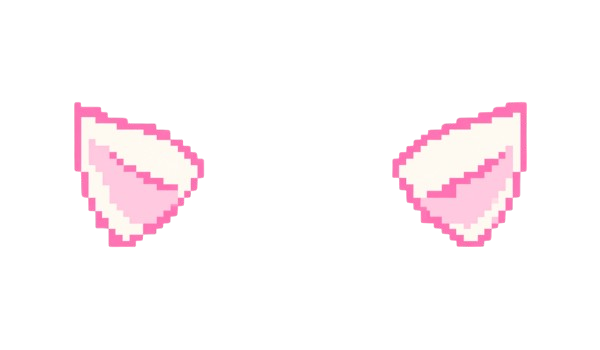
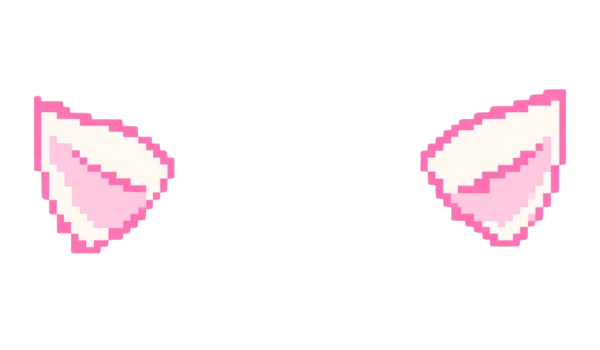
bg Filter added

Changed region(s): [[0.63, 0.2571, 0.96, 0.7143], [0.03, 0.2571, 0.36, 0.7429]]

diff --git a/filters/background_replace.py b/filters/background_replace.py
@@ -1,0 +1,140 @@
+import os
+import cv2
+import numpy as np
+from typing import Optional
+from rembg import remove, new_session
+
+# ── Asset path ────────────────────────────────────────────────────────────────
+_ASSETS_DIR: str = os.path.join(
+    os.path.dirname(os.path.abspath(__file__)), "..", "assets", "backgrounds"
+)
+
+# ── rembg session — loaded once, reused every frame ──────────────────────────
+# u2net_human_seg is optimised specifically for people — cleaner edges
+# than the default u2net model, especially around hair and shoulders.
+_session = None
+
+def _get_session():
+    global _session
+    if _session is None:
+        _session = new_session("u2net_human_seg")
+    return _session
+
+
+# ── Background cache ──────────────────────────────────────────────────────────
+_bg_cache: dict = {}
+
+def _load_bg(filename: str, target_w: int, target_h: int) -> np.ndarray:
+    """
+    Load and resize a background image to match frame dimensions.
+    Cached per filename — resized fresh only when frame size changes.
+    """
+    cache_key = f"{filename}_{target_w}_{target_h}"
+    if cache_key in _bg_cache:
+        return _bg_cache[cache_key]
+
+    path = os.path.join(_ASSETS_DIR, filename)
+    bg = cv2.imread(path, cv2.IMREAD_COLOR)
+    if bg is None:
+        # Fallback: solid gradient if file not found
+        bg = np.zeros((target_h, target_w, 3), dtype=np.uint8)
+        for y in range(target_h):
+            t = y / target_h
+            bg[y, :] = (
+                int(255 * (1 - t)),
+                int(180 * t),
+                int(255 * t),
+            )
+    else:
+        # Crop to same aspect ratio then resize — no stretching
+        bh, bw = bg.shape[:2]
+        target_aspect = target_w / target_h
+        bg_aspect     = bw / bh
+
+        if bg_aspect > target_aspect:
+            # BG is wider — crop sides
+            new_bw = int(bh * target_aspect)
+            ox     = (bw - new_bw) // 2
+            bg     = bg[:, ox: ox + new_bw]
+        else:
+            # BG is taller — crop top/bottom
+            new_bh = int(bw / target_aspect)
+            oy     = (bh - new_bh) // 2
+            bg     = bg[oy: oy + new_bh, :]
+
+        bg = cv2.resize(bg, (target_w, target_h), interpolation=cv2.INTER_AREA)
+
+    _bg_cache[cache_key] = bg
+    return bg
+
+
+def apply_background_replace(
+    img: np.ndarray,
+    bg_filename: str = "bg1.jpg",
+) -> np.ndarray:
+    """
+    Background Replacement filter.
+
+    Uses rembg (U2Net human segmentation model) to extract the person
+    from the frame, then composites them onto a custom background image.
+
+    Pipeline:
+      1. Convert BGR frame to RGB PNG bytes (rembg requires RGB input).
+      2. rembg.remove() → returns RGBA PNG bytes with background removed.
+      3. Decode RGBA → split into RGB person + alpha mask.
+      4. Load + resize background image to match frame dimensions.
+      5. Alpha-composite: person over background using the mask.
+      6. Optional edge softening — slight blur on mask edges to reduce
+         the hard cutout look, especially around fine hair.
+
+    Args:
+        img         : BGR uint8 image (H x W x 3)
+        bg_filename : filename of background image in assets/backgrounds/
+                      e.g. "bg1.jpg", "bg2.jpg", "bg3.jpg"
+
+    Returns:
+        BGR uint8 image with background replaced.
+    """
+    h: int = img.shape[0]
+    w: int = img.shape[1]
+
+    # ── 1. Convert BGR → RGB → PNG bytes for rembg ───────────────────────────
+    rgb: np.ndarray = cv2.cvtColor(img, cv2.COLOR_BGR2RGB)
+    _, png_buf = cv2.imencode('.png', rgb)
+    png_bytes: bytes = png_buf.tobytes()
+
+    # ── 2. Remove background → RGBA PNG bytes ────────────────────────────────
+    result_bytes: bytes = remove(
+        png_bytes,
+        session=_get_session(),
+        alpha_matting=True,              # better hair/edge quality
+        alpha_matting_foreground_threshold=240,
+        alpha_matting_background_threshold=10,
+        alpha_matting_erode_size=10,
+    )
+
+    # ── 3. Decode RGBA ────────────────────────────────────────────────────────
+    nparr: np.ndarray  = np.frombuffer(result_bytes, np.uint8)
+    rgba:  np.ndarray  = cv2.imdecode(nparr, cv2.IMREAD_UNCHANGED)
+
+    if rgba is None or rgba.shape[2] < 4:
+        return img.copy()   # fallback — return original if decode fails
+
+    person_rgb: np.ndarray = cv2.cvtColor(rgba[:, :, :3], cv2.COLOR_RGB2BGR)
+    alpha_raw:  np.ndarray = rgba[:, :, 3].astype(np.float32) / 255.0
+
+    # ── 4. Soften mask edges — reduces hard cutout look ───────────────────────
+    alpha_soft: np.ndarray = cv2.GaussianBlur(
+        alpha_raw, (5, 5), sigmaX=1.2
+    )
+    alpha3: np.ndarray = alpha_soft[:, :, np.newaxis]
+
+    # ── 5. Load background ────────────────────────────────────────────────────
+    background: np.ndarray = _load_bg(bg_filename, w, h)
+
+    # ── 6. Composite: person over background ─────────────────────────────────
+    person_f: np.ndarray = person_rgb.astype(np.float32)
+    bg_f:     np.ndarray = background.astype(np.float32)
+
+    composite: np.ndarray = person_f * alpha3 + bg_f * (1.0 - alpha3)
+    return np.clip(composite, 0, 255).astype(np.uint8)

diff --git a/filters/pixel.py b/filters/pixel.py
@@ -1,0 +1,79 @@
+import cv2
+import numpy as np
+
+# ── Config ────────────────────────────────────────────────────────────────────
+_BLOCK_SIZE:      int   = 2      # pixel block size in px — change to 16/32 for bigger blocks
+_SCANLINE_ALPHA:  float = 0.28   # scanline darkness 0.0=invisible 1.0=full black bars
+_SCANLINE_GAP:    int   = 2     # draw a dark bar every N rows (2 = every other row)
+_CONTRAST_BOOST:  float = 1.08   # slight contrast lift to compensate scanline darkening
+_SATURATION_BOOST:float = 1.12   # slight colour pop — CRT screens were vivid
+
+
+def apply_pixel(img: np.ndarray) -> np.ndarray:
+    """
+    Pixel Art + Scanlines filter (old CRT game screen aesthetic).
+
+    Pipeline:
+      1. Pixelate  — shrink to block grid, scale back with INTER_NEAREST
+                     so every block is a flat colour with hard edges.
+      2. Saturation boost — CRT screens had punchy vivid colours.
+      3. Contrast boost   — compensates for scanline darkening.
+      4. Scanlines — draw semi-transparent horizontal dark bars every
+                     _SCANLINE_GAP rows to mimic a CRT phosphor screen.
+
+    Args:
+        img : BGR uint8 image (H x W x 3)
+
+    Returns:
+        BGR uint8 image with pixel + scanline effect applied.
+    """
+    h: int = img.shape[0]
+    w: int = img.shape[1]
+
+    # ── 1. Pixelate ───────────────────────────────────────────────────────────
+    block: int = max(2, _BLOCK_SIZE)
+
+    # Shrink — each block becomes one pixel
+    small: np.ndarray = cv2.resize(
+        img,
+        (max(1, w // block), max(1, h // block)),
+        interpolation=cv2.INTER_LINEAR,   # average colours within block
+    )
+    # Scale back — INTER_NEAREST copies pixel exactly, no blending → hard edges
+    pixelated: np.ndarray = cv2.resize(
+        small,
+        (w, h),
+        interpolation=cv2.INTER_NEAREST,
+    )
+
+    # ── 2. Saturation + contrast boost ───────────────────────────────────────
+    hsv: np.ndarray = cv2.cvtColor(pixelated, cv2.COLOR_BGR2HSV).astype(np.float32)
+    hsv[:, :, 1] = np.clip(hsv[:, :, 1] * _SATURATION_BOOST, 0, 255)
+    hsv[:, :, 2] = np.clip(hsv[:, :, 2] * _CONTRAST_BOOST,   0, 255)
+    result: np.ndarray = cv2.cvtColor(hsv.astype(np.uint8), cv2.COLOR_HSV2BGR)
+
+    # ── 3. Scanlines ──────────────────────────────────────────────────────────
+    # Build a scanline mask: 1.0 everywhere except dark bars on every Nth row
+    scanline_mask: np.ndarray = np.ones((h, w), dtype=np.float32)
+
+    # Every _SCANLINE_GAP rows, draw a bar that is _SCANLINE_ALPHA darker
+    # Bar height = 1 px for subtle effect at 8px block size
+    for y in range(0, h, _SCANLINE_GAP):
+        scanline_mask[y, :] = 1.0 - _SCANLINE_ALPHA
+
+    # Apply mask: multiply each channel by the scanline pattern
+    scanline_mask3: np.ndarray = scanline_mask[:, :, np.newaxis]   # H×W×1
+    result = np.clip(
+        result.astype(np.float32) * scanline_mask3, 0, 255
+    ).astype(np.uint8)
+
+    # ── 4. Subtle green phosphor tint — optional CRT colour cast ─────────────
+    # Adds a very faint green-blue warmth typical of old CRT monitors.
+    # Comment out these 4 lines if you want a neutral (no tint) look.
+    tint: np.ndarray = np.zeros_like(result, dtype=np.float32)
+    tint[:, :] = (2, 4, 0)          # tiny BGR boost: +2 blue, +4 green, +0 red
+    result = np.clip(
+        result.astype(np.float32) + tint, 0, 255
+    ).astype(np.uint8)
+
+    return result

diff --git a/filters/heatmap.py b/filters/heatmap.py
@@ -1,0 +1,55 @@
+import cv2
+import numpy as np
+
+
+def apply_heatmap(img: np.ndarray) -> np.ndarray:
+    """
+    Thermal Heatmap filter — simulates an infrared thermal camera.
+
+    Matches the reference image:
+      • Dark/cool areas  → deep blue / purple
+      • Mid-areas        → cyan → green → yellow
+      • Bright/warm areas → orange → red → white-yellow
+
+    Pipeline:
+      1. Convert to grayscale (luminance = heat proxy)
+      2. Apply COLORMAP_JET  — OpenCV's built-in thermal palette
+         (blue=cold → cyan → green → yellow → red=hot)
+      3. Boost saturation so colours are vivid like the reference
+      4. Slight blur before mapping to smooth thermal gradients
+
+    Args:
+        img : BGR uint8 image (H x W x 3)
+
+    Returns:
+        BGR uint8 heatmap image, same shape as input.
+    """
+    # ── 1. Smooth first — thermal cameras don't have sharp edges ─────────────
+    smoothed: np.ndarray = cv2.GaussianBlur(img, (5, 5), sigmaX=1.5)
+
+    # ── 2. Grayscale — luminance acts as heat proxy ───────────────────────────
+    gray: np.ndarray = cv2.cvtColor(smoothed, cv2.COLOR_BGR2GRAY)
+
+    # ── 3. Enhance contrast so full colour range is used ─────────────────────
+    # CLAHE (Contrast Limited Adaptive Histogram Equalization) — spreads
+    # brightness values across the full 0-255 range locally, so even
+    # low-contrast areas get the full thermal colour spread.
+    clahe = cv2.createCLAHE(clipLimit=2.5, tileGridSize=(8, 8))
+    gray_eq: np.ndarray = clahe.apply(gray)
+
+    # ── 4. Apply thermal color map ───────────────────────────────────────────
+    # COLORMAP_JET matches the reference exactly:
+    #   0   (darkest) → blue/purple
+    #   64            → cyan
+    #   128           → green/yellow
+    #   192           → orange
+    #   255 (brightest)→ red/yellow-white
+    heatmap: np.ndarray = cv2.applyColorMap(gray_eq, cv2.COLORMAP_JET)
+
+    # ── 5. Saturation boost — make colours more vivid like reference ──────────
+    hsv: np.ndarray = cv2.cvtColor(heatmap, cv2.COLOR_BGR2HSV).astype(np.float32)
+    hsv[:, :, 1] = np.clip(hsv[:, :, 1] * 1.25, 0, 255)   # +25% saturation
+    hsv[:, :, 2] = np.clip(hsv[:, :, 2] * 1.05, 0, 255)   # +5% brightness
+    result: np.ndarray = cv2.cvtColor(hsv.astype(np.uint8), cv2.COLOR_HSV2BGR)
+
+    return result

diff --git a/filters/star_face.py b/filters/star_face.py
@@ -17,35 +17,35 @@ _SRC_H:        int = 395
 _SRC_ANCHOR_X: int = 198
 _SRC_ANCHOR_Y: int = 200
 
-# ── Recolor targets (BGR) — bright vivid colours matching reference ───────────
+# ── Recolor targets (BGR) — purple + pink focus matching reference ────────────
 _STAR_COLOURS: List[Tuple[int, int, int]] = [
-    (236,  159, 171),   # Marvelous
-    (202, 153,  171),   # Parrot Pink
-    (113, 85, 122),   # Old Lavender
-    (172,  222, 226),   # Light Blue
-    (184,  53,  86),   # Maroon
-    (139, 68, 92),   # deep Ruby
-    (72, 44, 61),   # Dark Puce
+    (180,  80, 120),   # Soft purple   #7850B4
+    (160,  80, 200),   # Lavender      #C850A0
+    (180, 105, 220),   # Pink          #DC69B4
+    (130,  50, 180),   # Deep purple   #B43282
+    (200, 130, 230),   # Light pink    #E682C8
+    (150,  60, 160),   # Violet        #A03C96
+    (210, 150, 240),   # Pale pink     #F096D2
 ]
 
 # ── Star placement config ─────────────────────────────────────────────────────
-# Clustered on cheeks + nose bridge — matches reference photo aesthetic
+# 3 stars on each cheek in a *.* triangle pattern (two bottom, one top-centre)
 # (pfx, pfy, size_frac, colour_idx, rotation_deg)
 #   pfx: 0.0=left edge  0.5=centre  1.0=right edge
-#   pfy: 0.0=top        0.5=nose    1.0=chin
+#   pfy: 0.0=top        0.5=mid     1.0=chin
 _STAR_PLACEMENTS: List[Tuple[float, float, float, int, float]] = [
-    # ── Left cheek cluster ────────────────────────────────────────────────
-    (0.20, 0.62, 0.11, 2, -15),   # left cheek mid
-    (0.26, 0.72, 0.09, 6,  -8),   # left cheek lower-inner
+    # ── Left cheek  *.*  (top-centre, bottom-left, bottom-right) ─────────
+    (0.20, 0.54, 0.08, 2,   0),   # left cheek top-centre
+    (0.27, 0.62, 0.08, 6,   0),   # left cheek bottom-right
 
-    # ── Nose bridge / centre ──────────────────────────────────────────────
+    # ── Nose bridge — unchanged size, colour updated ───────────────────────
     (0.42, 0.47, 0.09, 1,  12),   # nose left
     (0.50, 0.43, 0.08, 3,  -5),   # nose top centre
     (0.58, 0.47, 0.09, 5,  18),   # nose right
 
-    # ── Right cheek cluster ───────────────────────────────────────────────
-    (0.80, 0.62, 0.11, 5,  15),   # right cheek mid
-    (0.74, 0.72, 0.09, 0,   8),   # right cheek lower-inner
+    # ── Right cheek  *.*  (top-centre, bottom-left, bottom-right) ────────
+    (0.80, 0.54, 0.08, 4,   0),   # right cheek top-centre
+    (0.73, 0.62, 0.08, 5,   0),   # right cheek bottom-left
 ]
 
 # Cache

diff --git a/main.py b/main.py
@@ -1,6 +1,7 @@
 from fastapi import FastAPI
 from fastapi.middleware.cors import CORSMiddleware
 from pydantic import BaseModel
+from typing import Optional
 import base64
 import cv2
 import numpy as np
@@ -9,7 +10,9 @@ from filters.blush    import apply_blush
 from filters.cat_ears import apply_cat_ears
 from filters.hearts   import apply_hearts
 from filters.star_face import apply_star_face
-
+from filters.pixel import apply_pixel
+from filters.heatmap import apply_heatmap
+from filters.background_replace import apply_background_replace
 
 app = FastAPI()
 
@@ -25,6 +28,7 @@ class FilterRequest(BaseModel):
     image:   str
     filter:  str
     preview: bool = False
+    bg_filename: Optional[str] = "bg1.jpg"
 
 def decode_image(b64_string: str) -> np.ndarray:
     image_data  = base64.b64decode(b64_string)
@@ -55,6 +59,15 @@ async def apply_filter(request: FilterRequest):
         img = apply_hearts(img)
     elif f == "star_face":
         img = apply_star_face(img)
+    elif f == "pixel":
+        img = apply_pixel(img)
+    elif f == "heatmap":
+        img = apply_heatmap(img)
+    elif f == "bg_replace":
+        img = apply_background_replace(
+            img,
+            bg_filename=request.bg_filename or "bg1.jpg",
+        )
 
     return {"image": encode_image(img)}
 